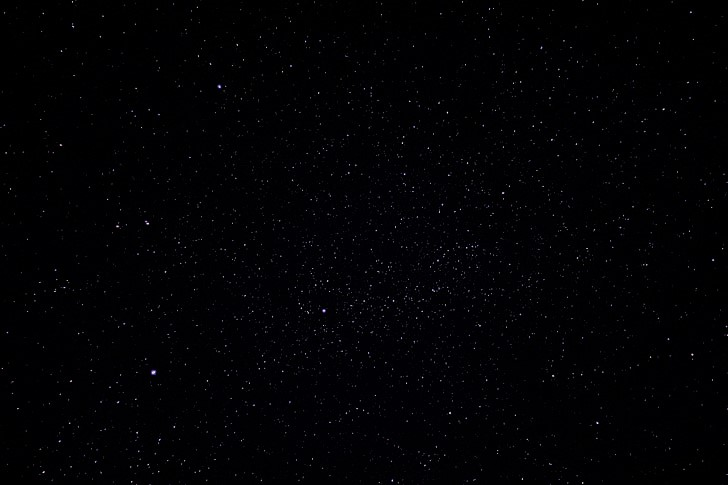
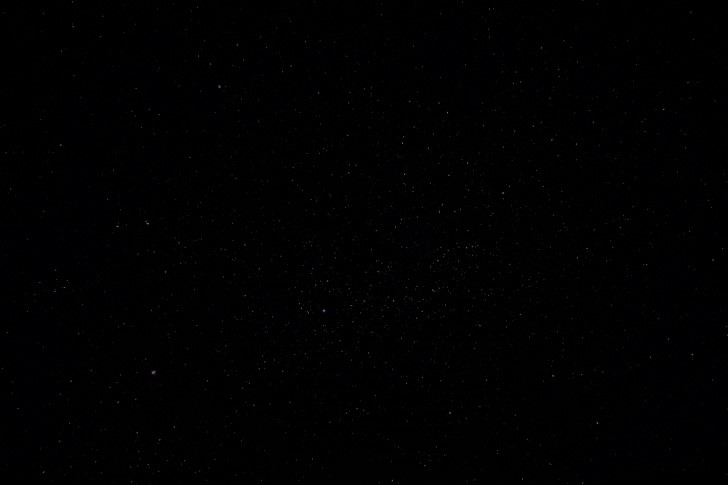
change background

Changed region(s): [[0.9973, 0.6495, 1.0, 0.6804]]

diff --git a/Style.css b/Style.css
@@ -6,19 +6,20 @@
   box-sizing: border-box;
 }
 body{
-  font-family: Verdana, sans-serif;
+  font-family: courier, sans-serif;
 }
+
 nav{
   background-image: url(stars.jpg);
   height: 60px;
   width: 100%;
 }
 
-nav ul{
+nav ul{  /* navigation bar set up (set right)*/
   float: right;
   margin-right: 20px;
 }
-nav ul li{
+nav ul li{ /* navigation bar set up (set horizontal)*/
   display: inline-block;
   line-height: 80px;
   margin: 0 5px;
@@ -31,8 +32,7 @@ nav ul li a{ /* navigation bar text*/
   text-transform: uppercase;
   font-weight: bolder;
 }
-.titleDiv{
-}
+
 div.titleDiv{
   text-align:center;
   height: 400px;
@@ -46,9 +46,22 @@ div.titleDiv{
   font-size: 80px;
 }
 .titleDiv h3{
-  color:white;
-  font-size: 20px;
-  font-weight:bold;
+  animation: type 4s steps(18);
+  overflow: hidden;
+  white-space: nowrap;
+  animation-iteration-count: 3;
+  font-family: consolas;
+  border-right: 2px solid white;
+  width: 18ch;
+  color: white;
+}
+@keyframes type {
+  0% {
+    width: 0ch;
+  }
+  100% {
+    width:18ch;
+  }
 }
 div.homeInfo{
   height: 200px;

diff --git a/HomePage.html b/HomePage.html
@@ -10,12 +10,12 @@
 	<div id="homeTitle" class="titleDiv">
 		<nav>
 			<ul>
-	        		<li><a class="active" href="HomePage.html">Home</a></li>
-	        		<li><a href="About.html">About</a></li>
-	        		<li><a href="Project.html">Project</a></li>
-	        		<li><a href="Resume.html">Resume</a></li>
-	      		</ul>
-	    	</nav>
+	        <li><a class="active" href="HomePage.html">Home</a></li>
+	        <li><a href="About.html">About</a></li>
+	       	<li><a href="Project.html">Project</a></li>
+	        <li><a href="Resume.html">Resume</a></li>
+	     </ul>
+	    </nav>
 		<br></br>
 		<h2>NGA TRAN</h2>
 		<h3>Glad You're Here!</h3>
